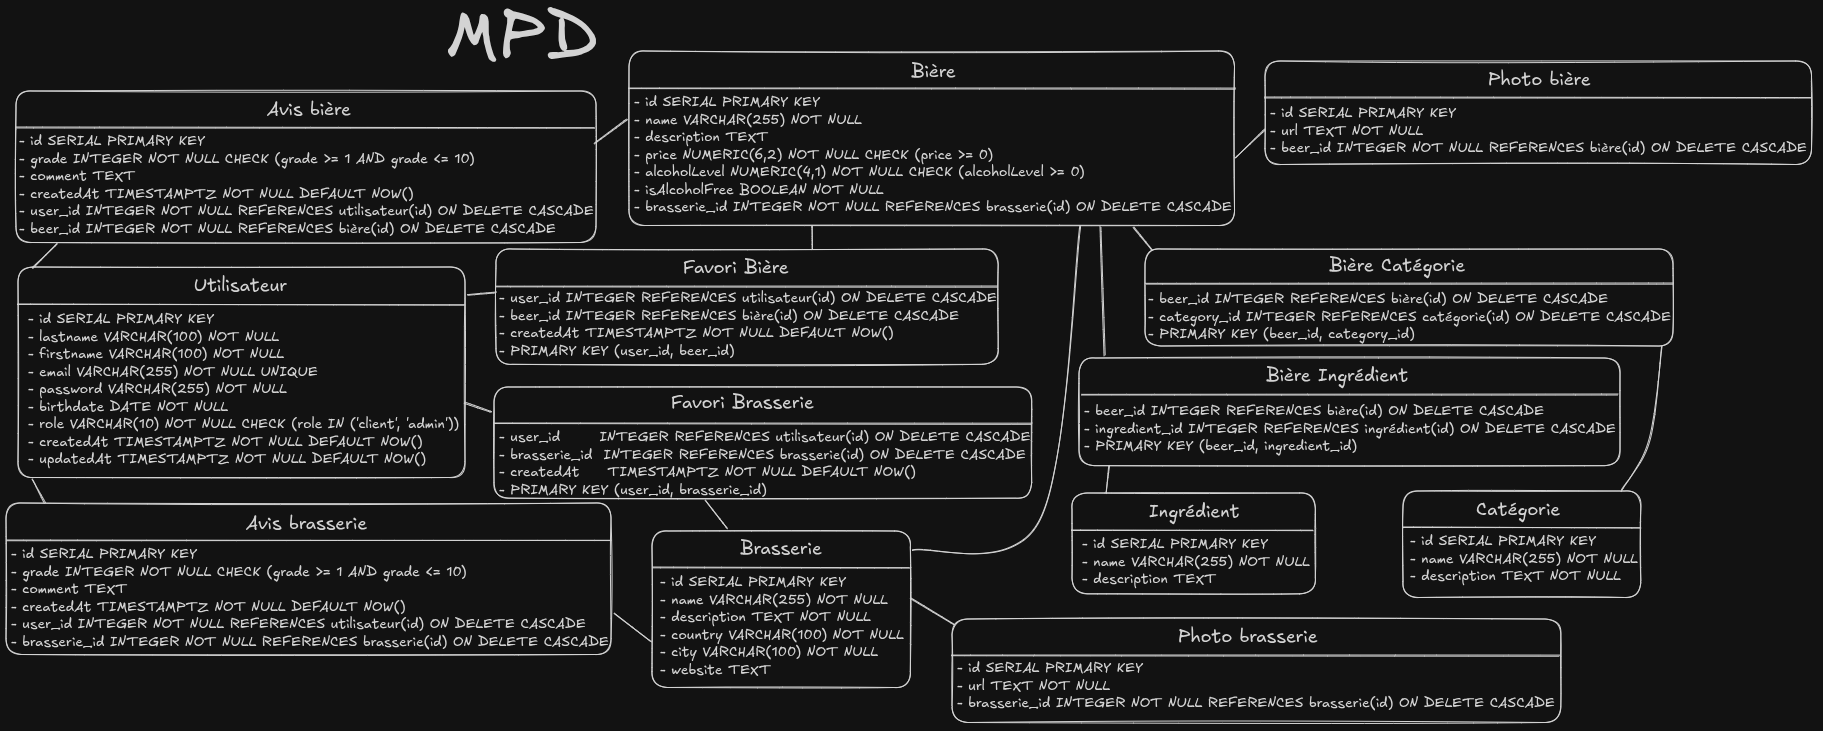
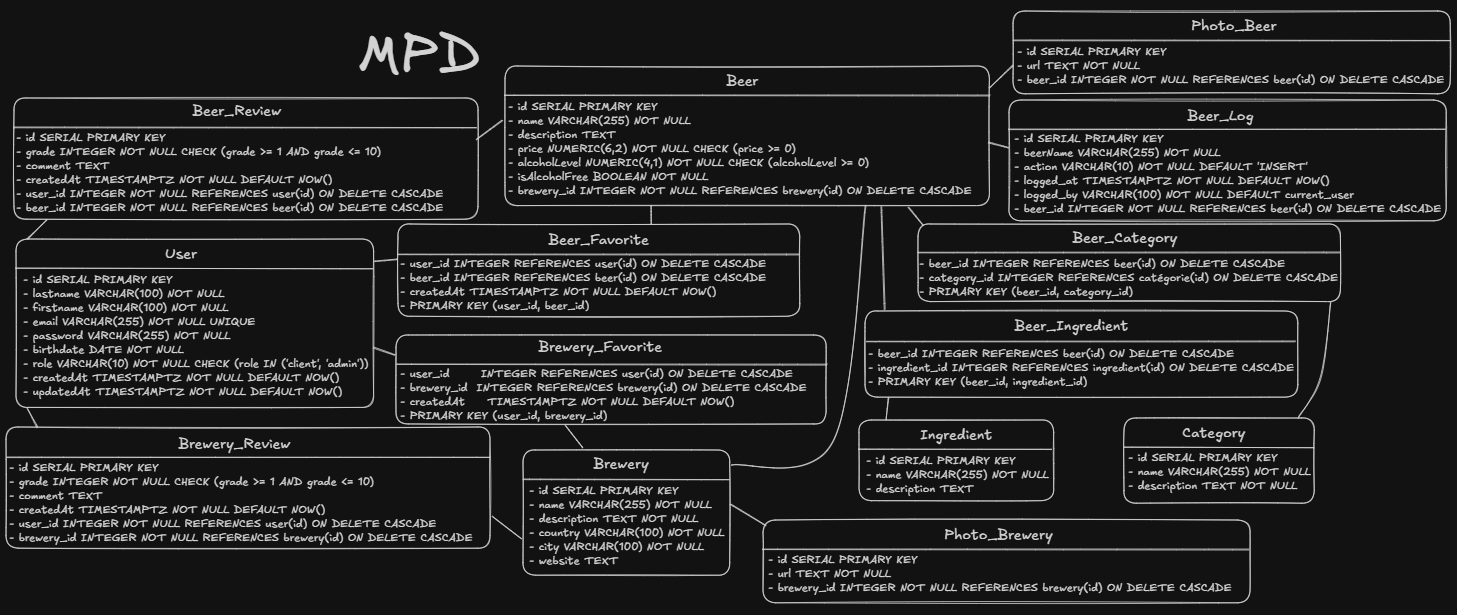
feat: make it work on my Windows PC, few changes in MCD MLD and MPD, add beer_log table

Changed region(s): [[0.0, 0.0, 1.0, 1.0]]

diff --git a/docs/dictionnaire-donnees.md b/docs/dictionnaire-donnees.md
@@ -41,3 +41,9 @@
 | lien_photo_bière             | Url de la photo d'une bière                     | Obligatoire | Texte (url)    | -                                                   |
 | id_photo_brasserie           | Identifiant de la photo d'une brasserie         | Obligatoire | Serial         | Unique, auto-incrémentée, clé primaire              |
 | lien_photo_brasserie         | Url de la photo d'une brasserie                 | Obligatoire | Texte (url)    | -                                                   |
+| id_journal_bière             | Identifiant unique de l'entrée de journal       | Obligatoire | Serial         | Unique, auto-incrémenté, clé primaire               |
+| id_bière_journal             | Référence à la bière insérée                    | Obligatoire | Entier         | Clé étrangère vers bière                            |
+| nom_bière_journal            | Nom de la bière au moment de l'insertion        | Obligatoire | Texte          | Snapshot dénormalisé                                |
+| action_journal               | Type d'opération enregistrée                    | Obligatoire | Texte          | Valeur fixe : INSERT                                |
+| date_journal                 | Horodatage de l'insertion                       | Obligatoire | Date avec fuseau horaire | Auto-générée                            |
+| utilisateur_db_journal       | Rôle PostgreSQL ayant effectué l'insertion      | Obligatoire | Texte          | Auto-généré via current_user                        |

diff --git a/docs/regles-gestion.md b/docs/regles-gestion.md
@@ -52,6 +52,17 @@
 | ------------------------------------------------------------ |
 | Un ingrédient peut concerner aucune, une ou plusieurs bières |
 
+| Journal bière                                                                                                |
+| ------------------------------------------------------------------------------------------------------------ |
+| Toute insertion d'une bière doit être automatiquement enregistrée dans le journal                            |
+| Une entrée de journal doit référencer la bière insérée                                                       |
+| Une entrée de journal doit conserver le nom de la bière au moment de l'insertion                             |
+| Une entrée de journal doit enregistrer l'horodatage exact de l'insertion                                     |
+| Une entrée de journal ne peut pas être modifiée après sa création                                            |
+| Une entrée de journal ne peut pas être supprimée manuellement                                                |
+| Si une bière est supprimée, ses entrées de journal le sont aussi (CASCADE)                                   |
+| L'enregistrement dans le journal est déclenché automatiquement par la base de données, pas par l'application |
+
 | Avis Bière                                                               |
 | ------------------------------------------------------------------------ |
 | Un avis peut avoir un commentaire (facultatif)                           |
